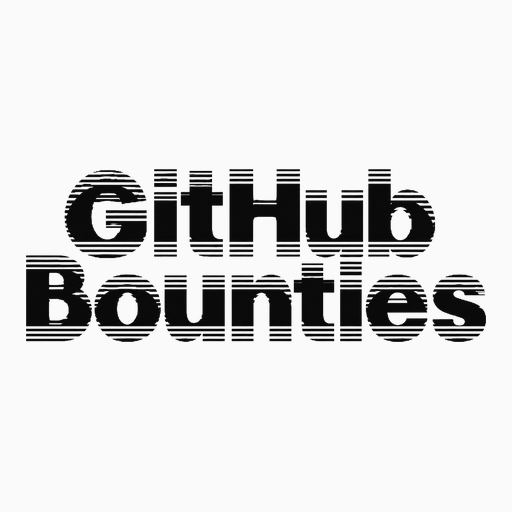
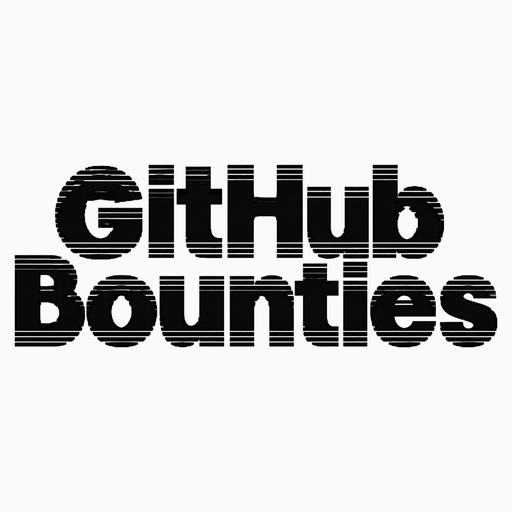
fix(web): fit the black wordmark inside WhatsApp's square thumb
The chat preview center-crops og:image to 1:1. Place the whole logo-1
wordmark in that square on #fafafa and thicken the ink so it stays
black at thumb size.

Changed region(s): [[0.0, 0.3125, 0.9688, 0.6875]]

diff --git a/apps/web/src/lib/social-metadata.test.ts b/apps/web/src/lib/social-metadata.test.ts
@@ -173,6 +173,35 @@ describe("share and icon assets", () => {
     assertDarkMarkOnLight("../../public/og.png", OG_IMAGE_WIDTH, OG_IMAGE_HEIGHT);
   });
 
+  it("keeps the whole black wordmark inside WhatsApp's center square crop", () => {
+    const png = readPng("../../public/og.png");
+    const side = png.height;
+    const left = Math.floor((png.width - side) / 2);
+    const right = left + side;
+    let centerDark = 0;
+    let centerSamples = 0;
+    let gutterDark = 0;
+    let gutterSamples = 0;
+    const step = 3;
+    for (let y = 0; y < png.height; y += step) {
+      for (let x = 0; x < png.width; x += step) {
+        const [r, g, b] = png.rgb(x, y);
+        const dark = (r + g + b) / 3 < 40;
+        if (x >= left && x < right) {
+          centerSamples += 1;
+          if (dark) centerDark += 1;
+        } else {
+          gutterSamples += 1;
+          if (dark) gutterDark += 1;
+        }
+      }
+    }
+    const centerRatio = centerDark / centerSamples;
+    const gutterRatio = gutterDark / gutterSamples;
+    assert.ok(centerRatio > 0.08, `center square dark-ink ratio ${centerRatio.toFixed(3)}`);
+    assert.ok(gutterRatio < 0.01, `side gutters dark-ink ratio ${gutterRatio.toFixed(3)} (mark must sit in the square thumb)`);
+  });
+
   it("uses the same dark-on-light mark for the tab and apple touch", () => {
     assertDarkMarkOnLight("../../public/icon.png", 512, 512);
     assertDarkMarkOnLight("../../public/apple-touch-icon.png", 180, 180);

diff --git a/apps/web/src/lib/social-metadata.ts b/apps/web/src/lib/social-metadata.ts
@@ -9,8 +9,9 @@ export const SITE_DESCRIPTION =
 /**
  * Share card built from the header wordmark (`public/logo-wordmark.png`,
  * logo-1 / `public/brand/logo-1.png`). Dark scanline mark on `#fafafa`.
- * Not logo-3 (light mark, vanishes on a white WhatsApp thumb) and not
- * logo-6 (`logo-wordmark-on-dark.png`, for zinc-950 only).
+ * The whole mark sits in the center square: WhatsApp's bubble crops
+ * `og:image` to 1:1. Not logo-3 (light mark, vanishes on a white thumb)
+ * and not logo-6 (`logo-wordmark-on-dark.png`, for zinc-950 only).
  */
 export const OG_IMAGE_PATH = "/og.png";
 export const OG_IMAGE_WIDTH = 1200;

diff --git a/apps/web/scripts/render-share-images.py b/apps/web/scripts/render-share-images.py
@@ -2,29 +2,30 @@
 """Rasterize share and tab icons from the homepage light-UI wordmark.
 
 Source is public/brand/logo-1.png (same bytes as public/logo-wordmark.png):
-dark scanline "GitHub Bounties" on transparent. Cards use the light site
-background (#fafafa). Do not use logo-3 (light mark, invisible on white) or
-logo-6 (light wordmark meant for zinc-950).
+dark scanline "GitHub Bounties" on transparent. Cards use #fafafa.
+
+WhatsApp's link bubble shows a square center-crop of og:image, not the full
+1200×630 frame. The wordmark is fitted inside that center square so the thumb
+is the whole black mark, and the ink is thickened slightly so scanline gaps
+do not average back to white at thumb size.
+
+Do not use logo-3 (light mark, invisible on white) or logo-6 (for zinc-950).
 """
 
 from __future__ import annotations
 
 from pathlib import Path
 
-from PIL import Image
+from PIL import Image, ImageFilter
 
 ROOT = Path(__file__).resolve().parents[1]
 SOURCE = ROOT / "public" / "brand" / "logo-1.png"
 BG = (250, 250, 250, 255)  # tailwind zinc-50 / #fafafa
-
-# (dest, canvas, max content box as a fraction of the canvas)
-TARGETS: list[tuple[Path, tuple[int, int], float]] = [
-    (ROOT / "public" / "og.png", (1200, 630), 0.88),
-    (ROOT / "public" / "icon.png", (512, 512), 0.90),
-    (ROOT / "public" / "apple-touch-icon.png", (180, 180), 0.88),
-    (ROOT / "src" / "app" / "icon.png", (512, 512), 0.90),
-    (ROOT / "src" / "app" / "apple-icon.png", (180, 180), 0.88),
-]
+# Master square. og.png pastes this into the center of 1200×630 (WhatsApp crop).
+MASTER = 1260
+FILL = 0.94
+# Min/max filter radius on the master. ~1px at the 630 crop; keeps small thumbs black.
+THICKEN = 2
 
 
 def content_bbox(image: Image.Image) -> tuple[int, int, int, int]:
@@ -35,36 +36,58 @@ def content_bbox(image: Image.Image) -> tuple[int, int, int, int]:
     return bbox
 
 
-def compose(mark: Image.Image, size: tuple[int, int], fill: float) -> Image.Image:
-    canvas_w, canvas_h = size
-    max_w = int(canvas_w * fill)
-    max_h = int(canvas_h * fill)
-    scale = min(max_w / mark.width, max_h / mark.height)
+def thicken_ink(image: Image.Image, radius: int) -> Image.Image:
+    if radius <= 0:
+        return image
+    size = radius * 2 + 1
+    ink = image.convert("L").point(lambda lum: 255 if lum < 220 else 0)
+    mask = ink.filter(ImageFilter.MaxFilter(size))
+    darker = image.filter(ImageFilter.MinFilter(size))
+    return Image.composite(darker, image, mask)
+
+
+def master_square(mark: Image.Image) -> Image.Image:
+    scale = min((MASTER * FILL) / mark.width, (MASTER * FILL) / mark.height)
     resized = mark.resize(
         (max(1, round(mark.width * scale)), max(1, round(mark.height * scale))),
         Image.Resampling.LANCZOS,
     )
-    canvas = Image.new("RGBA", size, BG)
-    x = (canvas_w - resized.width) // 2
-    y = (canvas_h - resized.height) // 2
-    canvas.alpha_composite(resized, (x, y))
-    return canvas.convert("RGB")
+    canvas = Image.new("RGBA", (MASTER, MASTER), BG)
+    canvas.alpha_composite(resized, ((MASTER - resized.width) // 2, (MASTER - resized.height) // 2))
+    return thicken_ink(canvas.convert("RGB"), THICKEN)
+
+
+def square_tile(master: Image.Image, side: int) -> Image.Image:
+    return master.resize((side, side), Image.Resampling.LANCZOS)
+
+
+def og_card(master: Image.Image) -> Image.Image:
+    side = 630
+    tile = square_tile(master, side)
+    card = Image.new("RGB", (1200, side), BG[:3])
+    card.paste(tile, ((1200 - side) // 2, 0))
+    return card
 
 
 def main() -> None:
     source = Image.open(SOURCE).convert("RGBA")
     mark = source.crop(content_bbox(source))
-    for dest, size, fill in TARGETS:
-        image = compose(mark, size, fill)
+    master = master_square(mark)
+
+    outputs: list[tuple[Path, Image.Image]] = [
+        (ROOT / "public" / "og.png", og_card(master)),
+        (ROOT / "public" / "icon.png", square_tile(master, 512)),
+        (ROOT / "public" / "apple-touch-icon.png", square_tile(master, 180)),
+        (ROOT / "src" / "app" / "icon.png", square_tile(master, 512)),
+        (ROOT / "src" / "app" / "apple-icon.png", square_tile(master, 180)),
+    ]
+    for dest, image in outputs:
         dest.parent.mkdir(parents=True, exist_ok=True)
         image.save(dest, "PNG", optimize=True)
         print(f"wrote {dest.relative_to(ROOT)} {image.size} {dest.stat().st_size} bytes")
 
     # Next's app/favicon.ico decoder rejects RGB PNGs embedded in an ICO.
-    tile = compose(mark, (180, 180), 0.88).convert("RGBA")
-    ico_images = [
-        tile.resize(size, Image.Resampling.LANCZOS).convert("RGBA") for size in ((48, 48), (32, 32), (16, 16))
-    ]
+    ico_images = [square_tile(master, side).convert("RGBA") for side in (48, 32, 16)]
     for dest in (ROOT / "public" / "favicon.ico", ROOT / "src" / "app" / "favicon.ico"):
         ico_images[0].save(
             dest,
